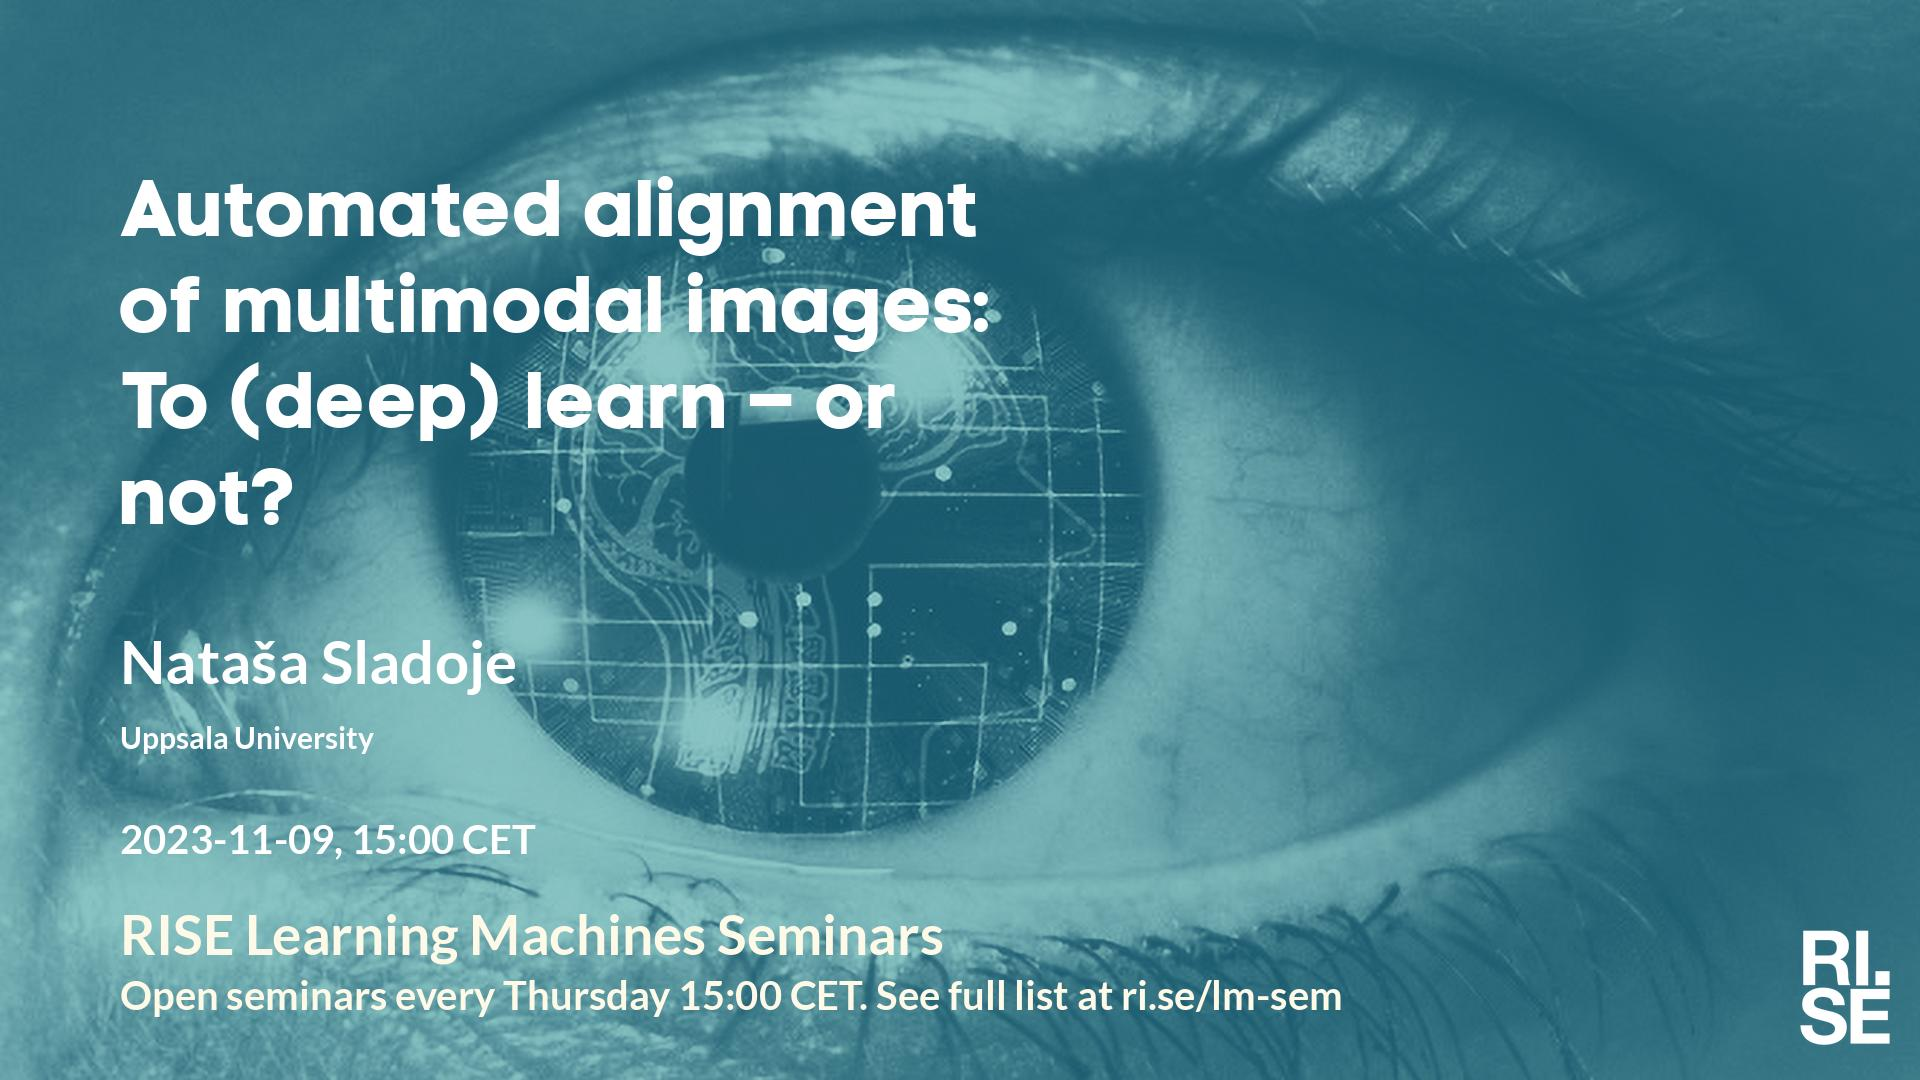
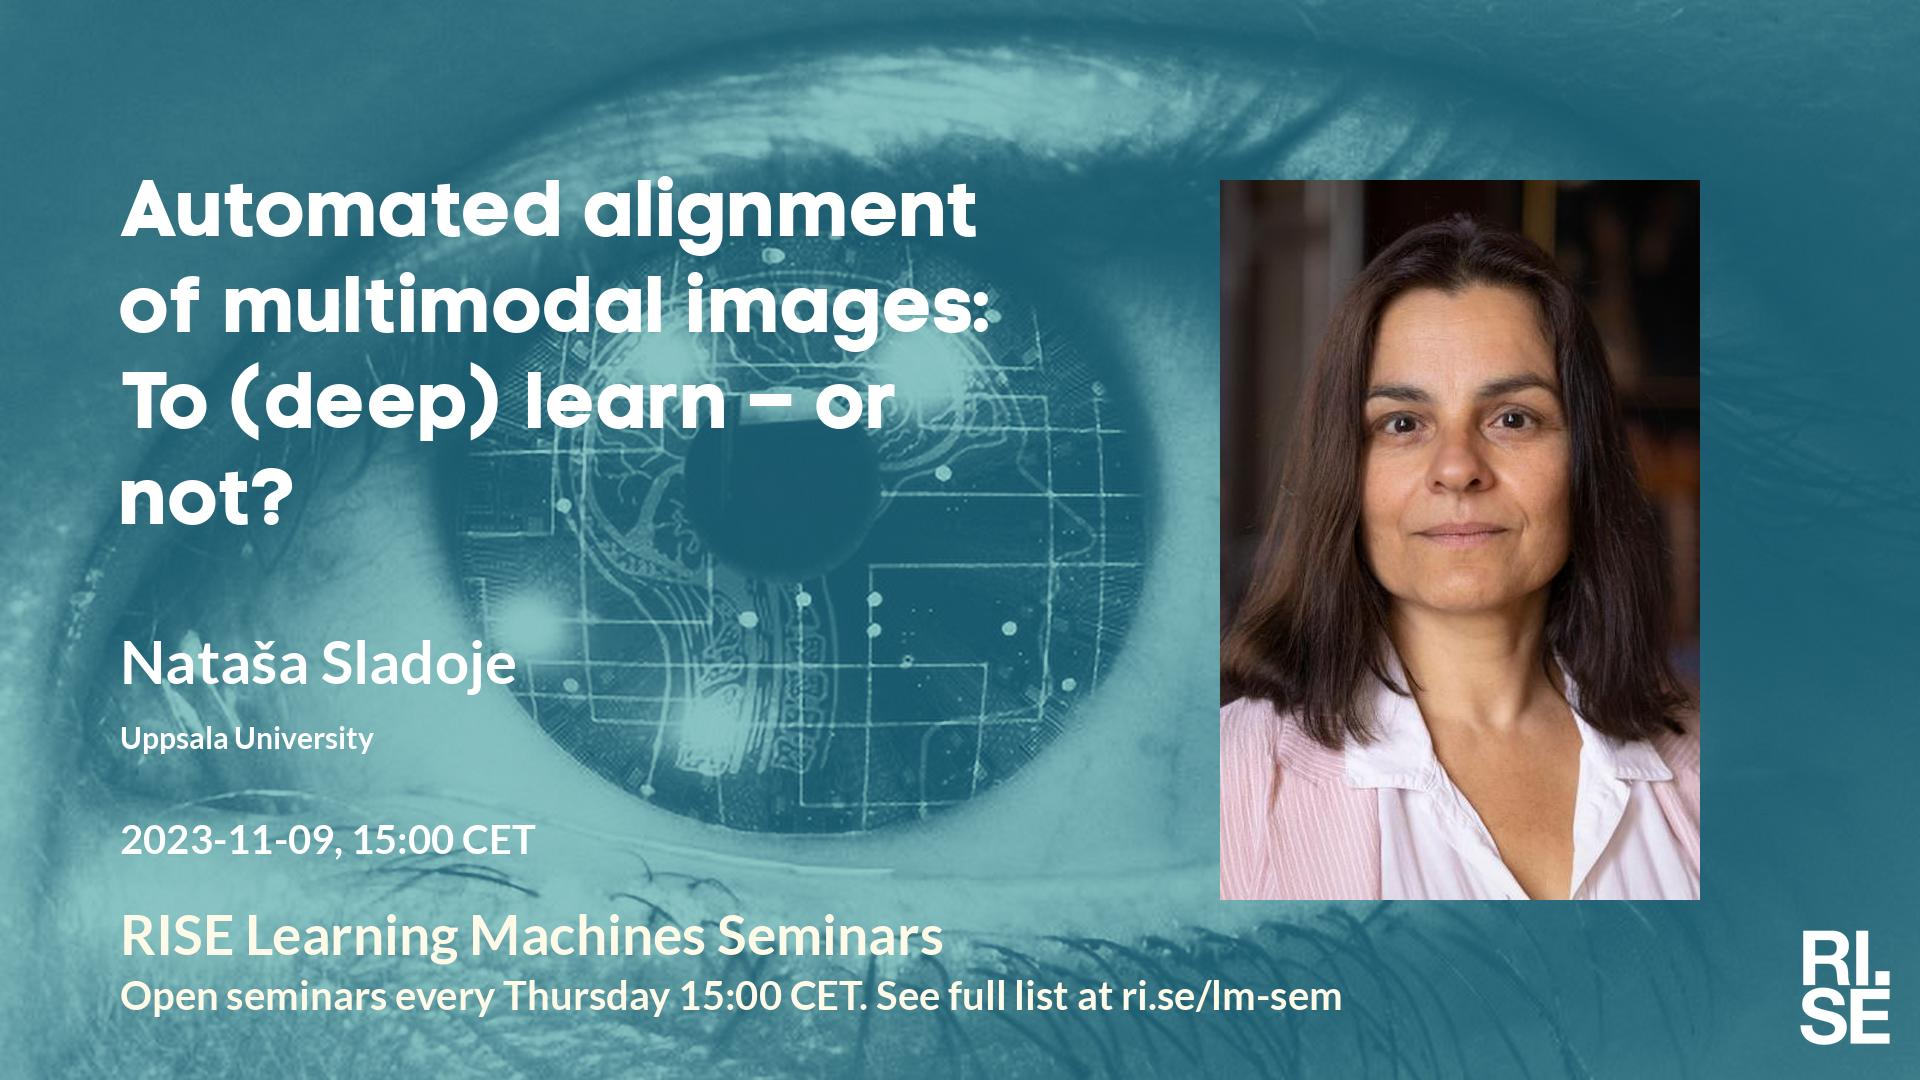
Updated plan on web site.

Changed region(s): [[0.625, 0.1528, 0.9062, 0.8556]]

diff --git a/lm/index.md b/lm/index.md
@@ -5,16 +5,15 @@ metatags: "<meta name=\"robots\" content=\"noindex,nofollow\" />"
 <style type="text/css" scoped>
 td, th {border: 1px solid #ccc; padding: 0.6em;}
 table {border-collapse: collapse;}
-</style># Learning Machines Plan 2023-10-24
+</style># Learning Machines Plan 2023-10-25
 
 | date | speaker                                   | photo | shareable | meeting backdrop | youtube thumbnail | <a title="Speaker, Title, Abstract, Bio, Photo. Strikethrough means we don't have it yet.">comment</a>        |
 | ---- | ----------------------------------------- | ----- | ----- | ----- | ----- | -------------- |
-|  2023-10-05  |  [Klaus-Robert Müller, TU Berlin](2023-10-05.md)  |  [photo](photo-klaus-robert-muller.jpg)  |  [social media ](social-media-klaus-robert-muller.jpg)  |  [meeting backdrop ](meeting-backdrop-klaus-robert-muller.jpg)  |  [youtube thumbnail ](youtube-thumbnail-klaus-robert-muller.jpg)  |  STABP  |
 | <span style="color:grey"> 2023-10-12 </span> | <span style="color:grey"> Giulio B. ? </span> | <span style="color:grey">  </span> | <span style="color:grey">  </span> | <span style="color:grey">  </span> | <span style="color:grey">  </span> | <span style="color:grey"> ?~~TABP~~ </span> |
 |  2023-10-19  |  [Valentin De Bortoli, Google Deepmind](2023-10-19.md)  |  [photo](photo-valentin-de-bortoli.jpg)  |  [social media ](social-media-valentin-de-bortoli.jpg)  |  [meeting backdrop ](meeting-backdrop-valentin-de-bortoli.jpg)  |  [youtube thumbnail ](youtube-thumbnail-valentin-de-bortoli.jpg)  |  STABP  |
 | <span style="color:purple"> 2023-10-26 </span> | <span style="color:purple"> *Up for grabs!!!* </span> | <span style="color:purple">  </span> | <span style="color:purple">  </span> | <span style="color:purple">  </span> | <span style="color:purple">  </span> | <span style="color:purple"> ~~STABP~~ </span> |
 |  2023-11-02  |  [Priya Donti, MIT and Climate Change AI](2023-11-02.md)  |  [photo](photo-priya-donti.jpg)  |  [social media ](social-media-priya-donti.jpg)  |  [meeting backdrop ](meeting-backdrop-priya-donti.jpg)  |  [youtube thumbnail ](youtube-thumbnail-priya-donti.jpg)  |  STABP  |
-|  2023-11-09  |  [Nataša Sladoje, Uppsala University](2023-11-09.md)  |    |  [social media ](social-media-natasa-sladoje.jpg)  |  [meeting backdrop ](meeting-backdrop-natasa-sladoje.jpg)  |  [youtube thumbnail ](youtube-thumbnail-natasa-sladoje.jpg)  |  STAB~~P~~  |
+|  2023-11-09  |  [Nataša Sladoje, Uppsala University](2023-11-09.md)  |  [photo](photo-natasa-sladoje.jpg)  |  [social media ](social-media-natasa-sladoje.jpg)  |  [meeting backdrop ](meeting-backdrop-natasa-sladoje.jpg)  |  [youtube thumbnail ](youtube-thumbnail-natasa-sladoje.jpg)  |  STABP  |
 |  2023-11-16  |  [Jonas Hellgren, RISE](2023-11-16.md)  |    |  [social media ](social-media-jonas-hellgren.jpg)  |  [meeting backdrop ](meeting-backdrop-jonas-hellgren.jpg)  |  [youtube thumbnail ](youtube-thumbnail-jonas-hellgren.jpg)  |  ST~~ABP~~  |
 | <span style="color:red"> 2023-11-23 </span> | <span style="color:red"> Thanksgiving </span> | <span style="color:red">  </span> | <span style="color:red">  </span> | <span style="color:red">  </span> | <span style="color:red">  </span> | <span style="color:red"> CANCELLED </span> |
 |  2023-11-30  |  [Ben Weinstein, University of Florida](2023-11-30.md)  |  [photo](photo-ben-weinstein.jpg)  |  [social media ](social-media-ben-weinstein.jpg)  |  [meeting backdrop ](meeting-backdrop-ben-weinstein.jpg)  |  [youtube thumbnail ](youtube-thumbnail-ben-weinstein.jpg)  |  STABP  |
